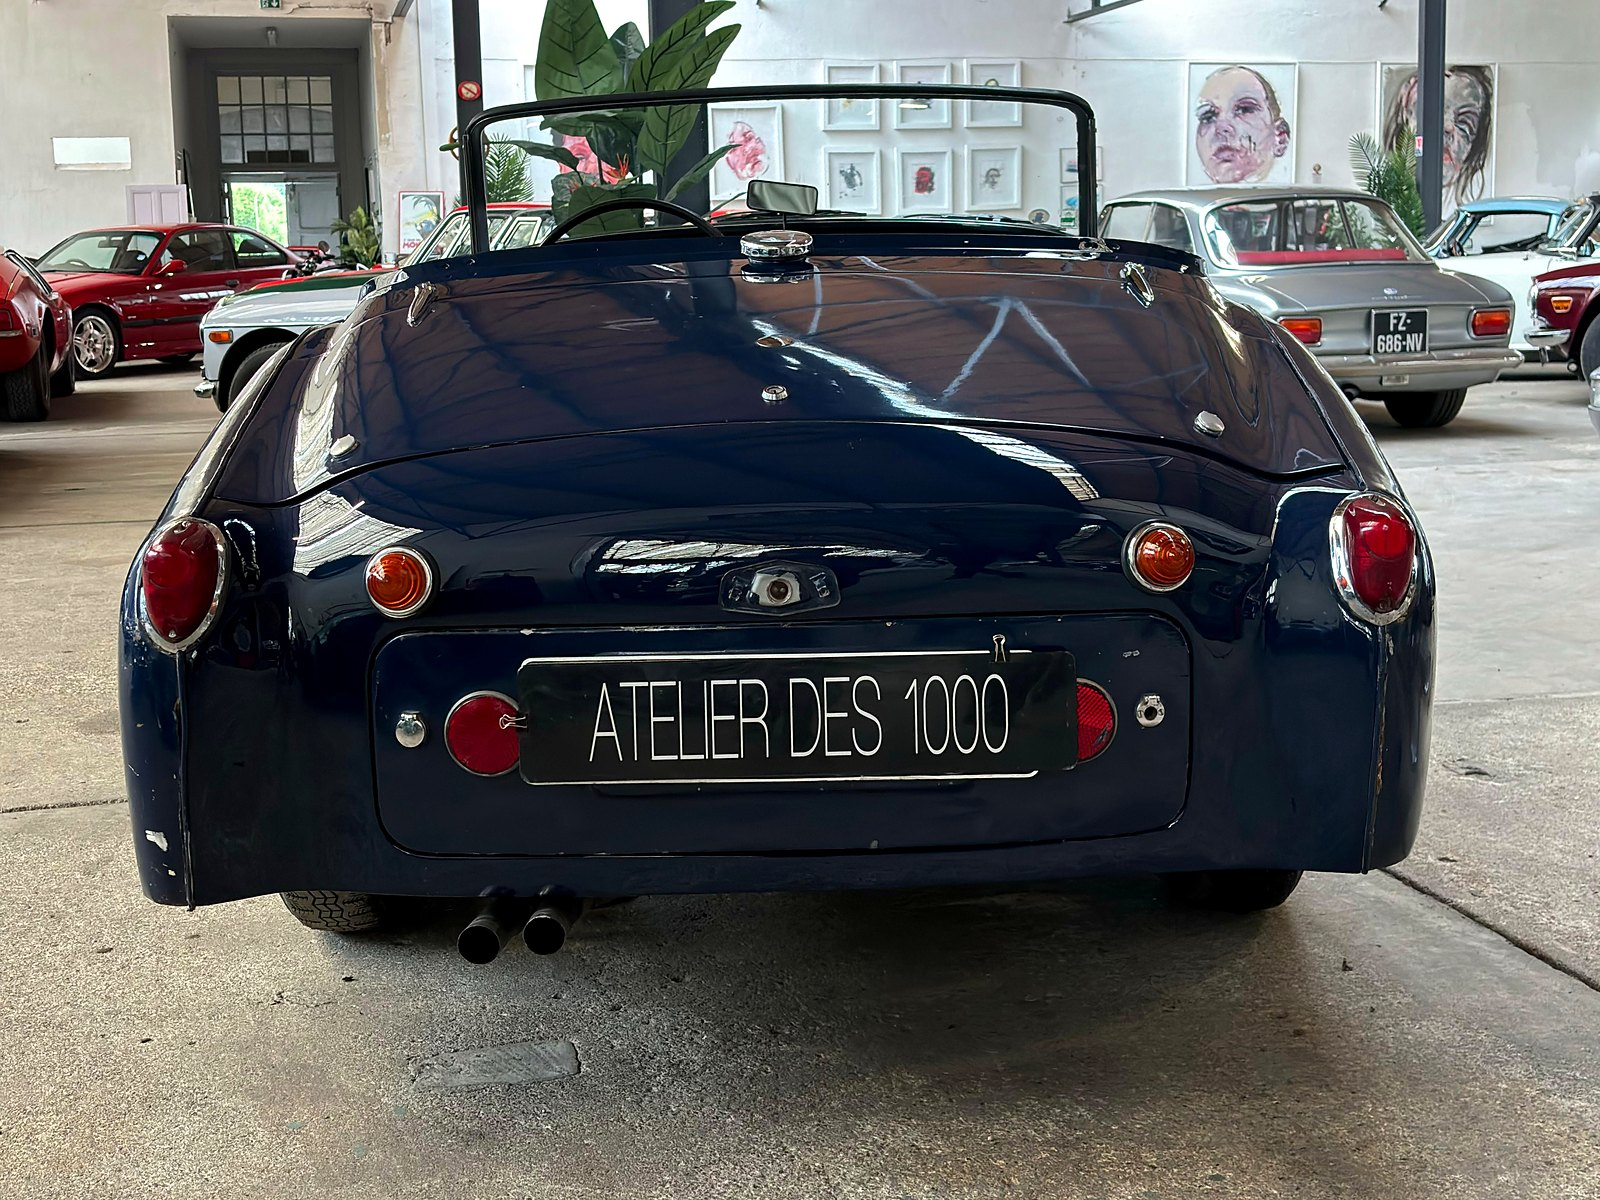
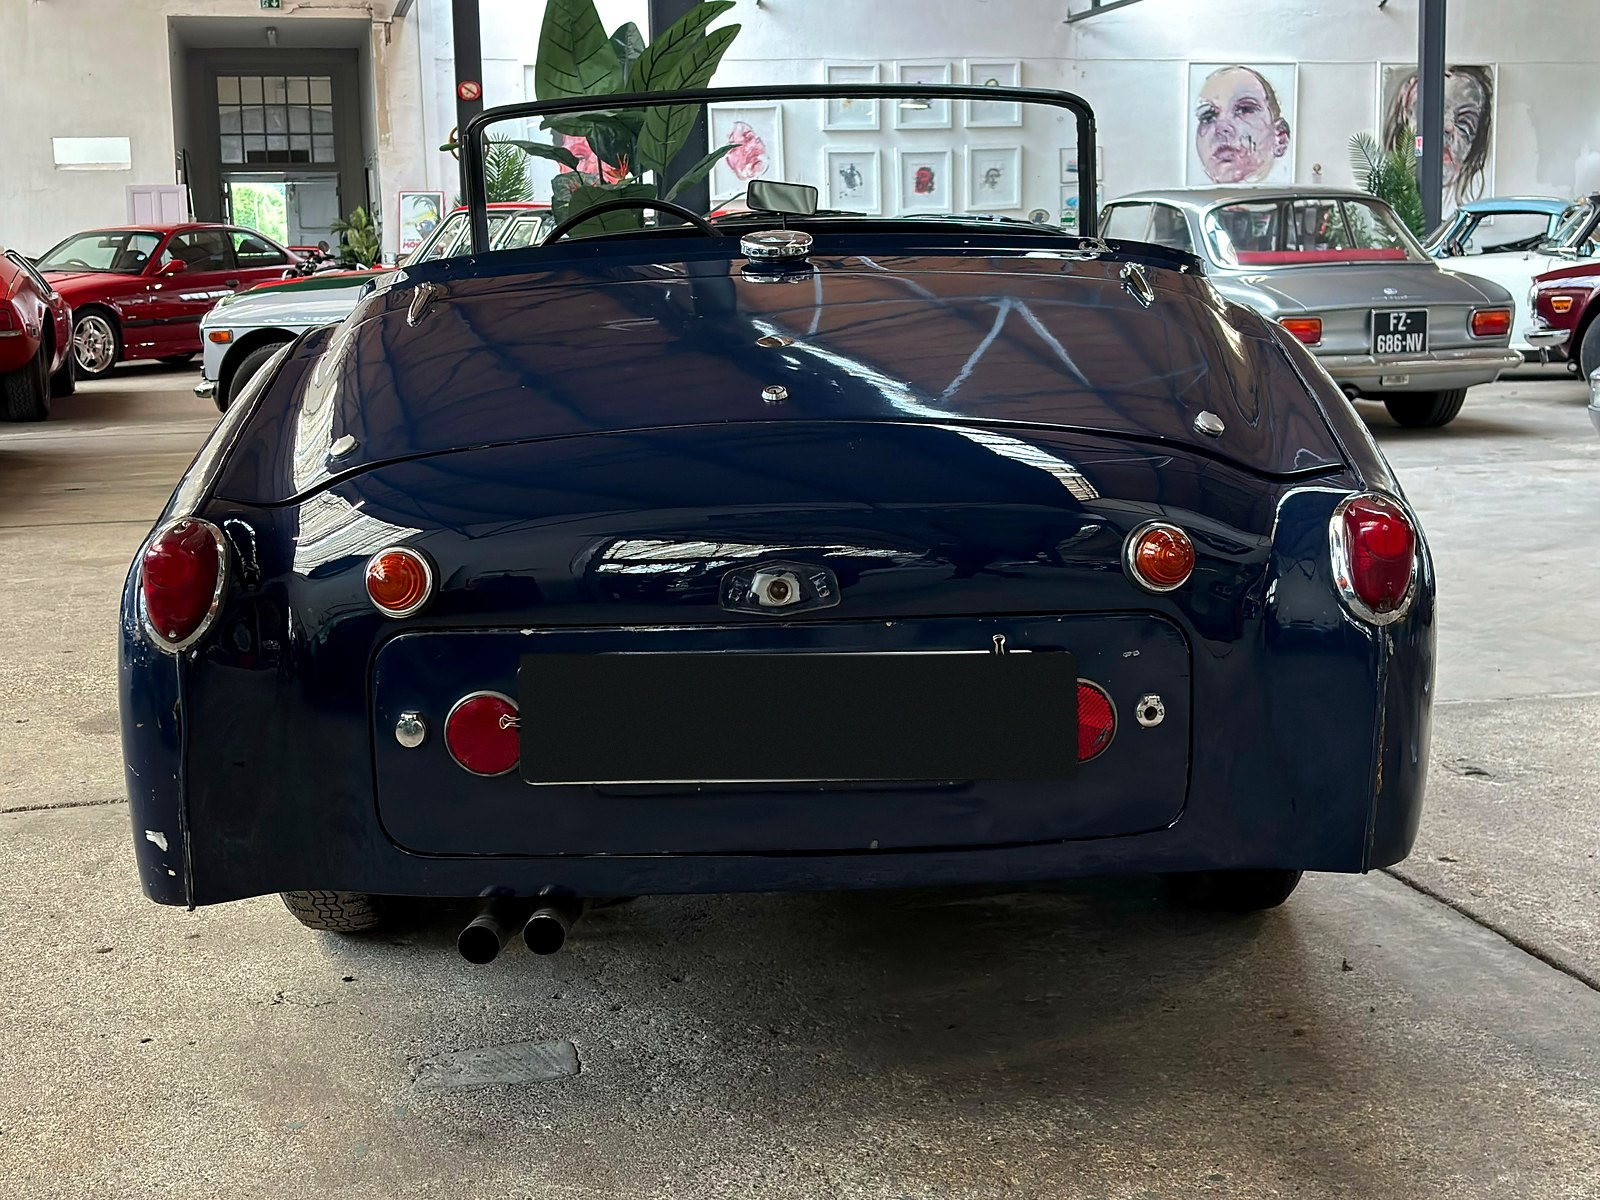
TR2 : plaques Atelier des 1000 masquées, raccords de peinture (pas de peinture complète), moteur refait chez Département Classic avec garantie, moquette « sera posée », photos prises chez l'Atelier des 1000, photo du plancher soudé retirée — 4 langues
Claude-Session: https://claude.ai/code/session_015zE2JL7RwucBb4xELUJa5y

Changed region(s): [[0.3438, 0.5242, 0.625, 0.6475]]

diff --git a/index.html b/index.html
@@ -1554,9 +1554,9 @@ footer{border-top:1px solid rgba(168,123,79,.3)!important}
         "Les quelque 4 000 premières sont dites « portes longues » : la porte descend jusqu'au bas de la caisse. Elle heurtait les trottoirs, et Triumph l'a raccourcie en ajoutant un seuil fixe ; plus légères, les portes longues sont aujourd'hui les plus recherchées.",
         "Celle-ci est une portes longues, construite le 13 juillet 1954 en conduite à gauche pour l'export, et livrée en noir avec intérieur en cuir rouge et capote beige, comme l'atteste son certificat du British Motor Industry Heritage Trust. Mise en circulation en Suède, elle n'y a connu que trois propriétaires, dont l'un l'a gardée près de cinquante ans.",
         "Restaurée en 1985, elle a alors reçu les améliorations techniques de la TR3 — moteur et freinage Girling à disques à l'avant — avant d'être remisée au sec. Elle en est ressortie complète, en bleu foncé avec intérieur noir et roues fil, sur un châssis sain.",
-        "Sa carrosserie a été reprise (bas de caisse, passages de roue arrière, planchers neufs) puis entièrement repeinte, et la mécanique remise en état : alimentation, freinage, embrayage. Elle a retrouvé un moteur de TR2, entièrement refait, à la place du moteur de TR3 posé en 1985 : elle est ainsi revenue à sa motorisation d'origine, tout en conservant le freinage à disques. Ses carburateurs ont été refaits.",
-        "Elle est présentable telle quelle. Il reste des améliorations possibles, d'ordre cosmétique, et l'overdrive est à remettre en fonction. Une moquette neuve est posée avant la livraison.",
-        "Le détail des travaux et les photos, de sa découverte en Suède jusqu'à l'atelier, figurent ci-dessous. Vendue avec son certificat Heritage. En qualité de professionnel, nous prenons en charge l'ensemble des démarches d'immatriculation en carte grise française de collection, au nom de l'acquéreur ; cette prestation est incluse."
+        "Sa carrosserie a été reprise sur les zones qui le demandaient (bas de caisse, passages de roue arrière, planchers neufs), avec des raccords de peinture sur ces zones, et la mécanique remise en état : alimentation, freinage, embrayage. Elle a retrouvé un moteur de TR2, entièrement refait chez Département Classic et garanti, à la place du moteur de TR3 posé en 1985 : elle est ainsi revenue à sa motorisation d'origine, tout en conservant le freinage à disques. Ses carburateurs ont été refaits.",
+        "Elle est présentable telle quelle. Il reste des améliorations possibles, d'ordre cosmétique, et l'overdrive est à remettre en fonction. Une moquette neuve sera posée avant la livraison.",
+        "Les photos de présentation ont été prises chez notre partenaire l'Atelier des 1000, qui avait réceptionné l'auto pour nous. Le détail des travaux et les photos, de sa découverte en Suède jusqu'à l'atelier, figurent ci-dessous. Vendue avec son certificat Heritage. En qualité de professionnel, nous prenons en charge l'ensemble des démarches d'immatriculation en carte grise française de collection, au nom de l'acquéreur ; cette prestation est incluse."
       ],
       "caracteristiques": {
         "Année": "1954",
@@ -1575,7 +1575,7 @@ footer{border-top:1px solid rgba(168,123,79,.3)!important}
         {
           "titre": "Moteur et alimentation",
           "points": [
-            "Moteur de TR2 entièrement refait (culasse, chemises et pistons neufs, bas moteur), posé à la place du moteur de TR3",
+            "Moteur de TR2 entièrement refait chez Département Classic, avec garantie (culasse, chemises et pistons neufs, bas moteur), posé à la place du moteur de TR3",
             "Carburateurs refaits",
             "Démarreur renforcé neuf",
             "Radiateur, durites et joints neufs, compartiment moteur repeint en noir",
@@ -1598,14 +1598,14 @@ footer{border-top:1px solid rgba(168,123,79,.3)!important}
             "Bas de caisse refaits",
             "Planchers neufs",
             "Face arrière reprise",
-            "Apprêt et peinture complète en cabine"
+            "Apprêt et raccords de peinture en cabine sur les zones reprises"
           ]
         },
         {
           "titre": "Finitions",
           "points": [
             "Barillet de contacteur à clé, joints de portes, insigne TR2 et cerclages de phares",
-            "Moquette neuve, posée avant la livraison"
+            "Moquette neuve, qui sera posée avant la livraison"
           ]
         }
       ],
@@ -1615,9 +1615,9 @@ footer{border-top:1px solid rgba(168,123,79,.3)!important}
         "img/tr2-2.jpg",
         "img/tr2-3.jpg",
         "img/tr2-4.jpg",
-        "img/tr2-5.jpg",
-        "img/tr2-6.jpg",
-        "img/tr2-7.jpg",
+        "img/tr2-5.jpg?v=2",
+        "img/tr2-6.jpg?v=2",
+        "img/tr2-7.jpg?v=2",
         "img/tr2-8.jpg",
         "img/tr2-9.jpg",
         "img/tr2-10.jpg",
@@ -1718,11 +1718,6 @@ footer{border-top:1px solid rgba(168,123,79,.3)!important}
           "legende": "Caisse en apprêt"
         },
         {
-          "src": "img/tr2-at-c5.jpg",
-          "groupe": "carro",
-          "legende": "Plancher neuf soudé"
-        },
-        {
           "src": "img/tr2-at-c6.jpg",
           "groupe": "carro",
           "legende": "Plancher neuf protégé"
@@ -1730,7 +1725,7 @@ footer{border-top:1px solid rgba(168,123,79,.3)!important}
         {
           "src": "img/tr2-at-c7.jpg",
           "groupe": "carro",
-          "legende": "Peinture en cabine"
+          "legende": "Raccords de peinture en cabine"
         },
         {
           "src": "img/tr2-at-c8.jpg",
@@ -1746,9 +1741,9 @@ footer{border-top:1px solid rgba(168,123,79,.3)!important}
             "The first 4,000 or so are known as “long-door” cars: the door reaches down to the bottom of the body. It caught on kerbs, so Triumph shortened it and added a fixed sill; lighter, the long-door cars are the most sought-after today.",
             "This one is a long-door car, built on 13 July 1954 in left-hand drive for export, and delivered in black with red leather interior and fawn hood, as confirmed by its British Motor Industry Heritage Trust certificate. First registered in Sweden, it had only three owners there, one of whom kept it for nearly fifty years.",
             "Restored in 1985, it then received the technical improvements of the TR3 — engine and Girling braking with front discs — before being laid up in dry storage. It came out complete, in dark blue with black interior and wire wheels, on a sound chassis.",
-            "The bodywork has been repaired (sills, rear wheel arches, new floors) and fully repainted, and the mechanicals recommissioned: fuel system, brakes, clutch. It has regained a TR2 engine, fully rebuilt, in place of the TR3 engine fitted in 1985: it is back to its original engine specification while keeping the disc brakes. Its carburettors have been rebuilt.",
-            "It is presentable as it is. Some cosmetic improvements remain possible, and the overdrive needs to be put back into working order. A new carpet set is fitted before delivery.",
-            "Details of the work and photos, from its discovery in Sweden to the workshop, are shown below. Sold with its Heritage certificate. As a professional, we handle all the formalities for French historic vehicle registration in the buyer's name; this service is included."
+            "The bodywork has been repaired where needed (sills, rear wheel arches, new floors), with paint blended on those areas, and the mechanicals recommissioned: fuel system, brakes, clutch. It has regained a TR2 engine, fully rebuilt by Département Classic and under warranty, in place of the TR3 engine fitted in 1985: it is back to its original engine specification while keeping the disc brakes. Its carburettors have been rebuilt.",
+            "It is presentable as it is. Some cosmetic improvements remain possible, and the overdrive needs to be put back into working order. A new carpet set will be fitted before delivery.",
+            "The presentation photos were taken at our partner Atelier des 1000, which took delivery of the car for us. Details of the work and photos, from its discovery in Sweden to the workshop, are shown below. Sold with its Heritage certificate. As a professional, we handle all the formalities for French historic vehicle registration in the buyer's name; this service is included."
           ],
           "caracteristiques": {
             "Year": "1954",
@@ -1767,7 +1762,7 @@ footer{border-top:1px solid rgba(168,123,79,.3)!important}
             {
               "titre": "Engine and fuel system",
               "points": [
-                "TR2 engine fully rebuilt (cylinder head, new liners and pistons, bottom end), fitted in place of the TR3 engine",
+                "TR2 engine fully rebuilt by Département Classic, with warranty (cylinder head, new liners and pistons, bottom end), fitted in place of the TR3 engine",
                 "Carburettors rebuilt",
                 "New high-torque starter",
                 "New radiator, hoses and gaskets, engine bay repainted black",
@@ -1790,14 +1785,14 @@ footer{border-top:1px solid rgba(168,123,79,.3)!important}
                 "Sills renewed",
                 "New floors",
                 "Rear panel repaired",
-                "Primer and full repaint in the booth"
+                "Primer and paint blending in the booth on the repaired areas"
               ]
             },
             {
               "titre": "Finishing",
               "points": [
                 "Ignition key barrel, door seals, TR2 badge and headlamp rims",
-                "New carpet set, fitted before delivery"
+                "New carpet set, to be fitted before delivery"
               ]
             }
           ],
@@ -1820,9 +1815,8 @@ footer{border-top:1px solid rgba(168,123,79,.3)!important}
             "Rear wheel arch repaired and protected",
             "Rear panel stripped",
             "Body in primer",
-            "New floor welded in",
             "New floor protected",
-            "Painting in the booth",
+            "Paint blending in the booth",
             "Body painted, being reassembled"
           ]
         },
@@ -1833,9 +1827,9 @@ footer{border-top:1px solid rgba(168,123,79,.3)!important}
             "Die ersten rund 4.000 sind sogenannte „Long Door“-Fahrzeuge: Die Tür reicht bis zur Unterkante der Karosserie. Sie stieß an Bordsteine, daher kürzte Triumph sie und fügte einen festen Schweller hinzu; die leichteren Long-Door-Fahrzeuge sind heute die gesuchtesten.",
             "Dieses Fahrzeug ist ein Long Door, gebaut am 13. Juli 1954 als Linkslenker für den Export und ausgeliefert in Schwarz mit rotem Lederinterieur und beigem Verdeck, wie das Zertifikat des British Motor Industry Heritage Trust belegt. In Schweden erstmals zugelassen, hatte es dort nur drei Besitzer, von denen einer es fast fünfzig Jahre behielt.",
             "Bei der Restaurierung 1985 erhielt es die technischen Verbesserungen des TR3 — Motor und Girling-Bremsanlage mit Scheibenbremsen vorn — und wurde anschließend trocken eingelagert. Es kam vollständig wieder zum Vorschein, in Dunkelblau mit schwarzem Interieur und Speichenrädern, auf einem gesunden Fahrgestell.",
-            "Die Karosserie wurde instand gesetzt (Schweller, hintere Radläufe, neue Böden) und komplett neu lackiert, die Technik wieder in Betrieb genommen: Kraftstoffversorgung, Bremsen, Kupplung. Es hat wieder einen TR2-Motor erhalten, vollständig überholt, anstelle des 1985 eingebauten TR3-Motors: So ist es zur ursprünglichen Motorisierung zurückgekehrt und behält dabei die Scheibenbremsen. Die Vergaser wurden überholt.",
+            "Die Karosserie wurde dort instand gesetzt, wo es nötig war (Schweller, hintere Radläufe, neue Böden), mit Beilackierung dieser Bereiche, und die Technik wieder in Betrieb genommen: Kraftstoffversorgung, Bremsen, Kupplung. Es hat wieder einen TR2-Motor erhalten, vollständig überholt bei Département Classic und mit Garantie, anstelle des 1985 eingebauten TR3-Motors: So ist es zur ursprünglichen Motorisierung zurückgekehrt und behält dabei die Scheibenbremsen. Die Vergaser wurden überholt.",
             "Es ist so, wie es ist, vorzeigbar. Kosmetische Verbesserungen sind noch möglich, und der Overdrive muss wieder instand gesetzt werden. Vor der Auslieferung wird ein neuer Teppichsatz eingebaut.",
-            "Die Einzelheiten der Arbeiten und die Fotos, von der Entdeckung in Schweden bis in die Werkstatt, finden Sie unten. Verkauft mit Heritage-Zertifikat. Als Fachhändler übernehmen wir alle Formalitäten für die französische Oldtimer-Zulassung auf den Namen des Käufers; diese Leistung ist inbegriffen."
+            "Die Präsentationsfotos wurden bei unserem Partner, dem Atelier des 1000, aufgenommen, der das Fahrzeug für uns entgegengenommen hatte. Die Einzelheiten der Arbeiten und die Fotos, von der Entdeckung in Schweden bis in die Werkstatt, finden Sie unten. Verkauft mit Heritage-Zertifikat. Als Fachhändler übernehmen wir alle Formalitäten für die französische Oldtimer-Zulassung auf den Namen des Käufers; diese Leistung ist inbegriffen."
           ],
           "caracteristiques": {
             "Baujahr": "1954",
@@ -1854,7 +1848,7 @@ footer{border-top:1px solid rgba(168,123,79,.3)!important}
             {
               "titre": "Motor und Kraftstoffversorgung",
               "points": [
-                "TR2-Motor vollständig überholt (Zylinderkopf, neue Laufbuchsen und Kolben, Kurbeltrieb), anstelle des TR3-Motors eingebaut",
+                "TR2-Motor bei Département Classic vollständig überholt, mit Garantie (Zylinderkopf, neue Laufbuchsen und Kolben, Kurbeltrieb), anstelle des TR3-Motors eingebaut",
                 "Vergaser überholt",
                 "Neuer verstärkter Anlasser",
                 "Neuer Kühler, neue Schläuche und Dichtungen, Motorraum schwarz lackiert",
@@ -1877,14 +1871,14 @@ footer{border-top:1px solid rgba(168,123,79,.3)!important}
                 "Schweller erneuert",
                 "Neue Böden",
                 "Heckblech instand gesetzt",
-                "Grundierung und Komplettlackierung in der Kabine"
+                "Grundierung und Beilackierung der instand gesetzten Bereiche in der Kabine"
               ]
             },
             {
               "titre": "Feinarbeiten",
               "points": [
                 "Zündschloss, Türdichtungen, TR2-Emblem und Scheinwerferringe",
-                "Neuer Teppichsatz, vor der Auslieferung eingebaut"
+                "Neuer Teppichsatz, wird vor der Auslieferung eingebaut"
               ]
             }
           ],
@@ -1907,9 +1901,8 @@ footer{border-top:1px solid rgba(168,123,79,.3)!important}
             "Hinterer Radlauf instand gesetzt und geschützt",
             "Heckblech freigelegt",
             "Karosserie in Grundierung",
-            "Neuer Boden eingeschweißt",
             "Neuer Boden geschützt",
-            "Lackierung in der Kabine",
+            "Beilackierung in der Kabine",
             "Karosserie lackiert, im Zusammenbau"
           ]
         },
@@ -1920,9 +1913,9 @@ footer{border-top:1px solid rgba(168,123,79,.3)!important}
             "Os cerca de 4 000 primeiros são os chamados “portas longas”: a porta desce até à base da carroçaria. Batia nos passeios, e a Triumph encurtou-a acrescentando uma embaladeira fixa; mais leves, os portas longas são hoje os mais procurados.",
             "Este é um portas longas, construído a 13 de julho de 1954 com volante à esquerda para exportação, e entregue em preto com interior em pele vermelha e capota bege, como atesta o certificado do British Motor Industry Heritage Trust. Matriculado na Suécia, teve ali apenas três proprietários, um dos quais o conservou durante quase cinquenta anos.",
             "Restaurado em 1985, recebeu então as melhorias técnicas do TR3 — motor e travagem Girling com discos à frente — antes de ficar guardado em local seco. Saiu de lá completo, em azul-escuro com interior preto e jantes de raios, sobre um chassis são.",
-            "A carroçaria foi recuperada (embaladeiras, cavas das rodas traseiras, pisos novos) e totalmente repintada, e a mecânica posta de novo em ordem: alimentação, travões, embraiagem. Recebeu de novo um motor de TR2, totalmente refeito, em vez do motor de TR3 montado em 1985: voltou assim à motorização de origem, mantendo os travões de disco. Os carburadores foram refeitos.",
-            "Está apresentável tal como está. Restam melhorias possíveis, de ordem estética, e o overdrive tem de voltar a funcionar. É colocada uma alcatifa nova antes da entrega.",
-            "O detalhe dos trabalhos e as fotos, desde a descoberta na Suécia até à oficina, encontram-se abaixo. Vendido com o certificado Heritage. Enquanto profissionais, tratamos de todas as formalidades de matrícula francesa de coleção em nome do comprador; este serviço está incluído."
+            "A carroçaria foi recuperada nas zonas que o exigiam (embaladeiras, cavas das rodas traseiras, pisos novos), com retoques de pintura nessas zonas, e a mecânica posta de novo em ordem: alimentação, travões, embraiagem. Recebeu de novo um motor de TR2, totalmente refeito na Département Classic e com garantia, em vez do motor de TR3 montado em 1985: voltou assim à motorização de origem, mantendo os travões de disco. Os carburadores foram refeitos.",
+            "Está apresentável tal como está. Restam melhorias possíveis, de ordem estética, e o overdrive tem de voltar a funcionar. Será colocada uma alcatifa nova antes da entrega.",
+            "As fotos de apresentação foram tiradas no nosso parceiro Atelier des 1000, que recebeu a viatura por nós. O detalhe dos trabalhos e as fotos, desde a descoberta na Suécia até à oficina, encontram-se abaixo. Vendido com o certificado Heritage. Enquanto profissionais, tratamos de todas as formalidades de matrícula francesa de coleção em nome do comprador; este serviço está incluído."
           ],
           "caracteristiques": {
             "Ano": "1954",
@@ -1941,7 +1934,7 @@ footer{border-top:1px solid rgba(168,123,79,.3)!important}
             {
               "titre": "Motor e alimentação",
               "points": [
-                "Motor de TR2 totalmente refeito (cabeça, camisas e pistões novos, parte inferior do motor), montado em vez do motor de TR3",
+                "Motor de TR2 totalmente refeito na Département Classic, com garantia (cabeça, camisas e pistões novos, parte inferior do motor), montado em vez do motor de TR3",
                 "Carburadores refeitos",
                 "Motor de arranque reforçado novo",
                 "Radiador, tubos e juntas novos, compartimento do motor repintado a preto",
@@ -1964,14 +1957,14 @@ footer{border-top:1px solid rgba(168,123,79,.3)!important}
                 "Embaladeiras refeitas",
                 "Pisos novos",
                 "Painel traseiro recuperado",
-                "Primário e pintura completa em cabine"
+                "Primário e retoques de pintura em cabine nas zonas recuperadas"
               ]
             },
             {
               "titre": "Acabamentos",
               "points": [
                 "Canhão da ignição, borrachas das portas, emblema TR2 e aros dos faróis",
-                "Alcatifa nova, colocada antes da entrega"
+                "Alcatifa nova, a colocar antes da entrega"
               ]
             }
           ],
@@ -1994,9 +1987,8 @@ footer{border-top:1px solid rgba(168,123,79,.3)!important}
             "Cava da roda traseira recuperada e protegida",
             "Painel traseiro decapado",
             "Carroçaria em primário",
-            "Piso novo soldado",
             "Piso novo protegido",
-            "Pintura em cabine",
+            "Retoques de pintura em cabine",
             "Carroçaria pintada, em remontagem"
           ]
         }
